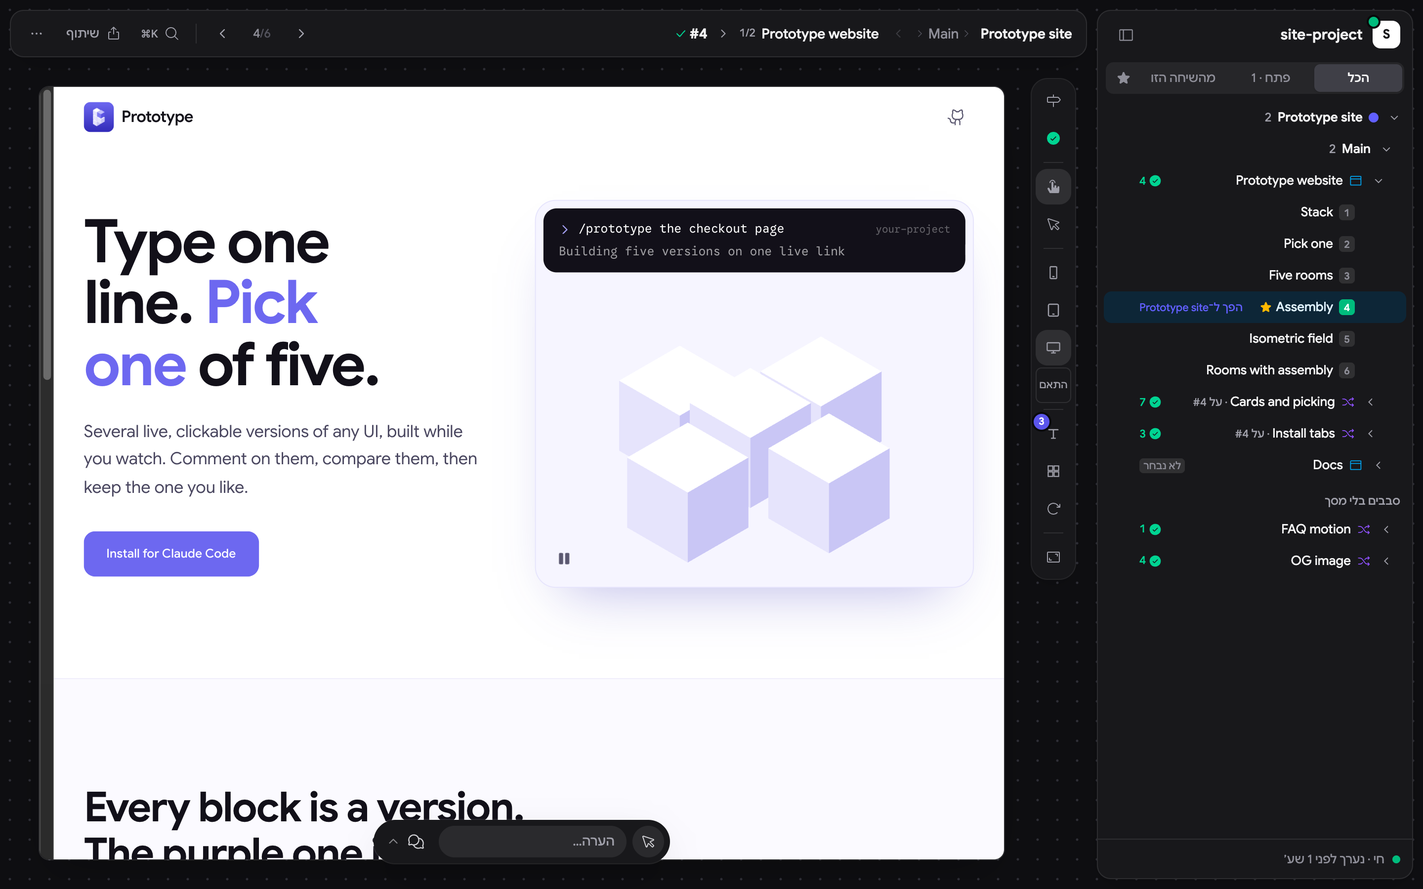
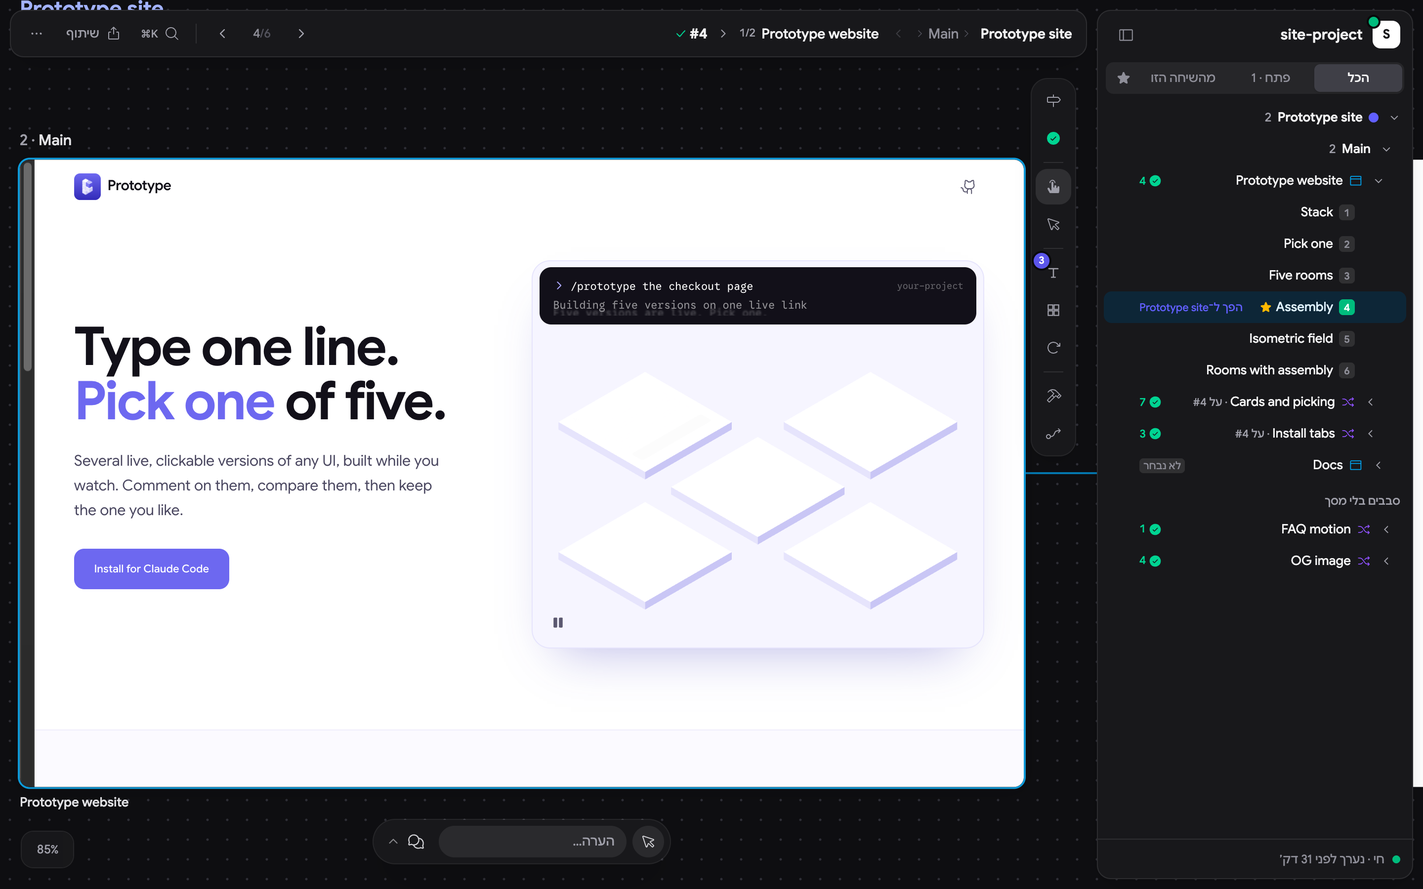
feat: zoom pill, Build it out of the island, zoom read against the design, a links toggle
The bottom pill now carries the zoom only (it opens to the layouts, Fit and zoom on hover), so the
strip drops its layout buttons. The % reads against the design's own size, up to 500%. Build it and
notes grow out of the comments island, which steps aside. Show every link is an icon in the strip.

diff --git a/app/shell/map/index.tsx b/app/shell/map/index.tsx
@@ -10,7 +10,7 @@ import { createRoot } from 'react-dom/client'
 import type { Design, Proto, Variant } from '../shell'
 import { t, tn } from '../i18n'
 import { numberOf } from '../variants'
-import { GAP, linePath, worldOf, type Board, type World } from './world'
+import { CARD, GAP, linePath, worldOf, type Board, type World } from './world'
 import { Ph } from '../tree/row'
 
 export type MapInput = {
@@ -38,6 +38,12 @@ export type MapApi = {
   slot?(el: HTMLElement | null): void
   /** Ends Focus where the map is (zoomed out past the focused board). */
   leave?(): void
+  /** The page's controls for the map (its zoom pill and strip), set by the map. */
+  ctl?: { zoom(f: number): void; fit(): void; build(): void }
+  /** The map's state for those controls: its zoom as the design's own size, Build it open and offered. With it, the page draws the controls. */
+  report?(s: { pct: number; build: boolean; one: boolean }): void
+  /** A box of the map's (Build it, a note) opened or closed: the comments island steps aside for it. */
+  panel?(open: boolean): void
   mount(el: HTMLElement, component: unknown): () => void
   /** The camera's last place, kept across Focus so leaving it flies back to where the map was. */
   camera: { x: number; y: number; z: number } | null
@@ -50,7 +56,8 @@ export type MapApi = {
 /** What a note on the map is about: a link line, a flow, or a link dragged from one screen to another. */
 type Note = { kind: 'line' | 'link'; a: Board; b: Board } | { kind: 'flow'; design: string; flow: string; a: Board }
 type Cam = { x: number; y: number; z: number }
-const MIN_Z = 0.02, MAX_Z = 2
+// The zoom reads as the design's own size (an option card is CARD of it), up to MAX_SIZE of it.
+const MAX_SIZE = 5, MIN_Z = 0.02, MAX_Z = MAX_SIZE / CARD
 /** A fold or a spread animates at most this many cards (those in view nearest the middle), for this long. */
 const MAX_ANIM = 24, ANIM_MS = 380
 /** How far under its fit the design in Focus is zoomed out before the map takes over again. */
@@ -178,6 +185,8 @@ function MapView({ api }: { api: MapApi }) {
   const dragged = useRef(0)
   const [size, setSize] = useState({ w: 1, h: 1 })
   const sizeRef = useRef(size); sizeRef.current = size
+  // The board the zoom is read against: the one in Focus, else the nearest the middle.
+  const refScale = useRef(1)
   const safe = useMemo(() => { const [l = 0, t = 0, r = 0, b = 0] = (input.safe ?? '').split(',').map(Number); return { l, t, r, b } }, [input.safe])
   const safeRef = useRef(safe); safeRef.current = safe
   /** The clear part of the map: where fits land and zooms centre. */
@@ -213,7 +222,7 @@ function MapView({ api }: { api: MapApi }) {
   }
   const fitAll = () => fly(fitTo({ x: 0, y: 0, w: Math.max(world.w, 1), h: Math.max(world.h, 1) }, 0.92))
   const zoomAt = (f: number, px: number, py: number) => {
-    const c = cam.current, z = clamp(c.z * f, MIN_Z, MAX_Z)
+    const c = cam.current, z = clamp(c.z * f, MIN_Z, MAX_SIZE / refScale.current)
     set({ z, x: px - (px - c.x) * (z / c.z), y: py - (py - c.y) * (z / c.z) })
     // Zoomed out well past the design in Focus: that is the map again, right where the camera is.
     const fb = focusRef.current
@@ -367,6 +376,13 @@ function MapView({ api }: { api: MapApi }) {
   const selBoard = world.boards.find(b => b.key === sel)
   const focusBoard = input.focus ? world.boards.find(b => b.kind === 'screen' && b.route === input.focus) ?? world.boards.find(b => b.route === input.focus) : undefined
   focusRef.current = focusBoard ?? null
+  refScale.current = (focusBoard ?? near[0])?.scale ?? 1
+  const pct = Math.round(c.z * refScale.current * 100)
+  const hosted = !!api.report
+  useEffect(() => { api.report?.({ pct, build, one: !!one && !ro }) }, [pct, build, !!one, ro]) // eslint-disable-line react-hooks/exhaustive-deps
+  useEffect(() => {
+    api.ctl = { zoom: f => { const a = clear(); zoomAt(f, a.x + a.w / 2, a.y + a.h / 2) }, fit: () => { const fb = focusRef.current; if (fb) fly(fitTo(fb, 1)); else fitAll() }, build: () => { setNote(null); setBuild(b => !b) } }
+  })
   // Focus moves the camera: onto the board it takes, and back to where the map was when it ends.
   useEffect(() => {
     // Hidden (a device size or a tool has the stage) the map has no size to fly in: it waits as it is.
@@ -509,7 +525,7 @@ function MapView({ api }: { api: MapApi }) {
       </div>
       {/* The map's own controls stay in its clear part, off the page's cards. */}
       <div className="pointer-events-none absolute [&>*]:pointer-events-auto" style={{ left: safe.l, top: safe.t, right: safe.r, bottom: safe.b }}>
-        <div data-map-tools className="absolute bottom-3 end-3 flex items-center gap-1 rounded-xl bg-white/90 p-1 text-[12px] shadow ring-1 ring-black/[.06] backdrop-blur dark:bg-zinc-900/90 dark:ring-white/10">
+        {!hosted && <div data-map-tools className="absolute bottom-3 end-3 flex items-center gap-1 rounded-xl bg-white/90 p-1 text-[12px] shadow ring-1 ring-black/[.06] backdrop-blur dark:bg-zinc-900/90 dark:ring-white/10">
           {input.designs.length > 1 && (
             <select data-map-design aria-label={t('Design')} value={input.design} onChange={e => api.setDesign(e.target.value)}
               className="h-7 max-w-40 rounded-lg bg-transparent px-1 text-zinc-600 hover:bg-zinc-900/5 dark:text-zinc-300 dark:hover:bg-white/10">
@@ -524,7 +540,7 @@ function MapView({ api }: { api: MapApi }) {
           <button type="button" data-map-zoom="in" aria-label={t('Zoom in')} title={t('Zoom in') + ' (+)'} onClick={() => { const a = clear(); zoomAt(1.25, a.x + a.w / 2, a.y + a.h / 2) }} className="grid size-7 place-items-center rounded-lg text-zinc-600 hover:bg-zinc-900/5 dark:text-zinc-300 dark:hover:bg-white/10"><Ph name="plus" className="size-3.5" /></button>
           <button type="button" data-map-fit onClick={fitAll} title={t('Fit (0)')} className="h-7 rounded-lg px-2 text-zinc-600 hover:bg-zinc-900/5 dark:text-zinc-300 dark:hover:bg-white/10">{t('Fit')}</button>
           <span className="w-10 text-center tabular-nums text-zinc-400">{Math.round(c.z * 100)}%</span>
-        </div>
+        </div>}
         {build && one && !note && <BuildBox design={one} boards={world.boards} api={api} onClose={() => setBuild(false)} />}
         {note && <NoteBox key={`${note.kind}:${note.a.key}:${'b' in note ? note.b.key : note.flow}`} note={note} api={api} onClose={() => setNote(null)} />}
         {selBoard && selBoard !== focusBoard && !note && !build && (
@@ -538,10 +554,28 @@ function MapView({ api }: { api: MapApi }) {
   )
 }
 
+/** A box of the map's grows out of the comments island (which steps aside meanwhile), as if the island became it. */
+function useFromIsland(api: MapApi) {
+  const box = useRef<HTMLDivElement>(null)
+  useLayoutEffect(() => {
+    const el = box.current, from = document.querySelector('[data-island-host] [data-island]')?.getBoundingClientRect()
+    api.panel?.(true)
+    if (el && from && from.width && !matchMedia('(prefers-reduced-motion: reduce)').matches) {
+      const to = el.getBoundingClientRect()
+      el.animate([
+        { transform: `translate(${from.left - to.left}px, ${from.top - to.top}px) scale(${from.width / to.width}, ${from.height / to.height})`, borderRadius: '999px', opacity: 0.5 },
+        { transform: 'none', borderRadius: '16px', opacity: 1 },
+      ], { duration: 280, easing: 'cubic-bezier(.2, .9, .25, 1)' })
+    }
+    return () => api.panel?.(false)
+  }, []) // eslint-disable-line react-hooks/exhaustive-deps
+  return box
+}
+
 /** Words to the agent about a link, a flow, or a link to add: what it is about, a field, Send. */
 function NoteBox({ note, api, onClose }: { note: Note; api: MapApi; onClose: () => void }) {
   const [text, setText] = useState(''), [state, setState] = useState<'' | 'sending' | 'sent' | 'failed'>('')
-  const field = useRef<HTMLTextAreaElement>(null)
+  const field = useRef<HTMLTextAreaElement>(null), box = useFromIsland(api)
   useEffect(() => { field.current?.focus() }, [])
   const what = note.kind === 'flow' ? t('A note on the flow {flow}', { flow: note.flow })
     : note.kind === 'line' ? t('A note on the link {a} → {b}', { a: note.a.title, b: note.b.title })
@@ -559,7 +593,7 @@ function NoteBox({ note, api, onClose }: { note: Note; api: MapApi; onClose: () 
     } catch { setState('failed') }
   }
   return (
-    <div data-map-note={note.kind} className="absolute inset-x-0 bottom-3 mx-auto max-sm:bottom-14 w-[min(26rem,calc(100%-2rem))] rounded-2xl bg-white p-3 text-[13px] shadow-[0_18px_44px_-14px_rgb(0_0_0/.35)] ring-1 ring-black/[.06] dark:bg-zinc-900 dark:text-zinc-100 dark:ring-white/10">
+    <div ref={box} data-map-note={note.kind} style={{ transformOrigin: 'top left' }} className="absolute inset-x-0 bottom-3 mx-auto max-sm:bottom-14 w-[min(26rem,calc(100%-2rem))] rounded-2xl bg-white p-3 text-[13px] shadow-[0_18px_44px_-14px_rgb(0_0_0/.35)] ring-1 ring-black/[.06] dark:bg-zinc-900 dark:text-zinc-100 dark:ring-white/10">
       <div className="mb-2 flex items-center gap-2"><span dir="auto" className="min-w-0 flex-1 truncate font-medium">{what}</span>
         <button type="button" aria-label={t('Close')} onClick={onClose} className="grid size-7 place-items-center rounded-lg text-zinc-400 hover:bg-zinc-900/5 dark:hover:bg-white/10"><Ph name="x" className="size-3.5" /></button></div>
       <textarea ref={field} data-map-note-field dir="auto" rows={2} value={text} onChange={e => setText(e.target.value)}
@@ -580,7 +614,7 @@ function BuildBox({ design, boards, api, onClose }: { design: Design; boards: Bo
   const screens = boards.filter(b => b.kind === 'screen' && b.design === design.id)
   const [on, setOn] = useState(() => new Set(screens.filter(b => !b.standIn).map(b => b.key)))
   const [state, setState] = useState<'' | 'sending' | 'sent' | 'failed'>('')
-  const chosen = screens.filter(b => on.has(b.key))
+  const chosen = screens.filter(b => on.has(b.key)), box = useFromIsland(api)
   const send = async () => {
     if (!chosen.length || state === 'sending') return
     const list = chosen.map(b => b.key.slice('screen:'.length)), open = chosen.filter(b => b.standIn).map(b => b.slug)
@@ -592,7 +626,7 @@ function BuildBox({ design, boards, api, onClose }: { design: Design; boards: Bo
     } catch { setState('failed') }
   }
   return (
-    <div data-map-build-box data-map-note="build" className="absolute inset-x-0 bottom-3 mx-auto max-sm:bottom-14 w-[min(24rem,calc(100%-2rem))] rounded-2xl bg-white p-3 text-[13px] shadow-[0_18px_44px_-14px_rgb(0_0_0/.35)] ring-1 ring-black/[.06] dark:bg-zinc-900 dark:text-zinc-100 dark:ring-white/10">
+    <div ref={box} data-map-build-box data-map-note="build" style={{ transformOrigin: 'top left' }} className="absolute inset-x-0 bottom-3 mx-auto max-sm:bottom-14 w-[min(24rem,calc(100%-2rem))] rounded-2xl bg-white p-3 text-[13px] shadow-[0_18px_44px_-14px_rgb(0_0_0/.35)] ring-1 ring-black/[.06] dark:bg-zinc-900 dark:text-zinc-100 dark:ring-white/10">
       <div className="mb-1 flex items-center gap-2"><span dir="auto" className="min-w-0 flex-1 truncate font-medium">{t('Build {name}', { name: design.title })}</span>
         <button type="button" aria-label={t('Close')} onClick={onClose} className="grid size-7 place-items-center rounded-lg text-zinc-400 hover:bg-zinc-900/5 dark:hover:bg-white/10"><Ph name="x" className="size-3.5" /></button></div>
       <p className="mb-2 text-zinc-500">{t('The screens you tick, with their links as real navigation.')}</p>

diff --git a/app/shell/shell.ts b/app/shell/shell.ts
@@ -559,6 +559,7 @@ export function createShell(root: HTMLElement, opts: { mount: Mount; protos: Pro
         <div data-comments class="pointer-events-none absolute inset-0 z-[16] has-[[data-composer]]:z-[25]" style="inset-inline-start:var(--strip-w,0px);inset-inline-end:var(--hw,0px);bottom:calc(var(--stage-b,var(--pill-h,0px)) + var(--dock-h,0px) + var(--copy-h,0px))"></div>
         <div data-island-host class="pointer-events-none absolute inset-0 z-[17]" style="inset-inline-start:var(--strip-w,0px);inset-inline-end:var(--hw,0px)"></div>
         <div data-strip hidden class="absolute start-3 top-3 z-[20]"></div>
+        <div data-zoom-pill hidden class="absolute bottom-3 z-[21]" style="inset-inline-end:calc(var(--hw,0px) + 0.75rem)"></div>
         <div data-motion-dock class="absolute start-0 z-[18]" style="inset-inline-end:var(--hw,0px);bottom:var(--pill-h,0px)"></div>
         <div data-copy-bar class="absolute start-0 z-[14]" style="inset-inline-end:var(--hw,0px);bottom:calc(var(--pill-h,0px) + var(--dock-h,0px))"></div>
         <div data-copy-sheet class="pointer-events-none absolute inset-0 z-[19] overflow-hidden" style="inset-inline-end:var(--hw,0px);bottom:var(--pill-h,0px)"></div>
@@ -673,6 +674,8 @@ export function createShell(root: HTMLElement, opts: { mount: Mount; protos: Pro
   let mapSnap: MapInput | null = null, mapMounted = false, lastFocus = ''
   let mapLines: 'all' | 'selected' = localStorage.getItem('proto-map-lines') === 'all' ? 'all' : 'selected'
   let mapDesign = '', mapEdits = 0
+  // What the map says of itself: its zoom (as the design's own size), and Build it (open, offered).
+  let mapState = { pct: 100, build: false, one: false }
   // The area the tree asked the map to show (a design or flow key, numbered so asking again flies again).
   let mapFrame = '', frames = 0
   // Each prototype's file edits, counted: its stills on the map are taken again when its count moves.
@@ -700,11 +703,36 @@ export function createShell(root: HTMLElement, opts: { mount: Mount; protos: Pro
     setDesign: id => { mapDesign = id; paintMap() },
     ask: async (on, action, text) => { await comments.act.decide(on, action, { body: [text], tags: [] }) },
     slot: el => { slotEl = el; placeLayer() },
+    report: s => { const was = mapState; mapState = s; paintZoom(); if (was.build !== s.build || was.one !== s.one) render() },
+    panel: open => islandHost.toggleAttribute('data-away', open),
     leave: () => { if (inPlace()) go({ view: 'session' }) },
   }
   // On a wide desk the map fills the window, under the bar, the strip, the sidebar and the island; it
   // is told the clear part of it (the stage), where it fits and centres things and keeps its controls.
   const deskMq = matchMedia('(min-width: 1024px)')
+  // The zoom pill (tree mode, a wide page): its zoom only, and on hover the layouts, Fit and −/+. It
+  // drives the map's camera while the map shows (its zoom is the design's own size), else the layout's.
+  const zoomPillOn = () => treeOn && !framed && deskMq.matches && !st.focus && (onMap() || inPlace() || viewOn())
+  let zoomKey = ''
+  function paintZoom() {
+    const el = root.querySelector<HTMLElement>('[data-zoom-pill]')
+    if (!el) return
+    if (!el.dataset.bound) { el.dataset.bound = '1'; el.addEventListener('change', e => { const sel = (e.target as HTMLElement).closest<HTMLSelectElement>('select[data-map-design]'); if (sel) mapApi.setDesign(sel.value) }) }
+    const on = zoomPillOn()
+    el.hidden = !on
+    if (!on) { el.innerHTML = ''; zoomKey = ''; return }
+    const mapOn = onMap() || inPlace(), inScreen = st.place.view === 'variant'
+    const pct = mapOn ? `${mapState.pct}%` : scaleLabel()
+    const key = JSON.stringify([mapOn, inScreen, viewOk(), shownSize(), st.view.land, designs.map(d => d.id + d.title), mapDesign, document.documentElement.lang])
+    if (key === zoomKey && el.firstElementChild) { el.querySelector('[data-zoom-pct]')!.textContent = pct; return }
+    zoomKey = key
+    const btn = 'grid size-7 shrink-0 place-items-center rounded-lg text-zinc-600 hover:bg-zinc-900/5 aria-pressed:bg-zinc-900/[.07] aria-pressed:text-zinc-900 dark:text-zinc-300 dark:hover:bg-white/10 dark:aria-pressed:bg-white/10 dark:aria-pressed:text-white'
+    const sizes = inScreen && viewOk() ? ORDER.map(z => { const land = z === 'tablet' && st.view.land, d = dims(z, land); return `<button type="button" data-act="size:${z}" data-shoot="pill-size-${z}" aria-pressed="${shownSize() === z}" aria-label="${SIZES[z].name}" title="${SIZES[z].name} · ${d.w} × ${d.h}" class="${btn}">${ic(sizeIcon(z, land))}</button>` }).join('') + '<span class="mx-1 h-5 w-px shrink-0 bg-black/[.08] dark:bg-white/10"></span>' : ''
+    const pick = mapOn && designs.length > 1 ? `<select data-map-design aria-label="${t('Design')}" class="h-7 max-w-40 shrink-0 rounded-lg bg-transparent px-1 text-zinc-600 hover:bg-zinc-900/5 dark:text-zinc-300 dark:hover:bg-white/10"><option value="">${t('All designs')}</option>${designs.map(d => `<option value="${esc(d.id)}"${d.id === mapDesign ? ' selected' : ''}>${esc(d.title)}</option>`).join('')}</select>` : ''
+    el.innerHTML = `<div class="group flex items-center rounded-xl bg-white/90 p-1 text-[12px] shadow ring-1 ring-black/[.06] backdrop-blur dark:bg-zinc-900/90 dark:ring-white/10">
+      <div data-zoom-more class="flex max-w-0 items-center gap-0.5 overflow-hidden opacity-0 transition-[max-width,opacity] duration-200 ease-out group-hover:max-w-[40rem] group-hover:opacity-100 group-focus-within:max-w-[40rem] group-focus-within:opacity-100 motion-reduce:transition-none">${pick}${sizes}<button type="button" data-act="zoom:fit" data-map-fit aria-label="${mapOn ? t('Fit') : t('Center the design')}" title="${mapOn ? t('Fit') : t('Center the design')} · 0" class="${btn}">${ic('center')}</button><button type="button" data-act="zoom:out" data-map-zoom="out" aria-label="${t('Zoom out')}" title="${t('Zoom out')} (-)" class="${btn}">${ic('zoom-out', 'size-3.5')}</button><button type="button" data-act="zoom:in" data-map-zoom="in" aria-label="${t('Zoom in')}" title="${t('Zoom in')} (+)" class="${btn}">${ic('zoom-in', 'size-3.5')}</button></div>
+      <span data-zoom-pct class="min-w-11 px-1.5 text-center tabular-nums text-zinc-500 dark:text-zinc-400">${pct}</span></div>`
+  }
   function paintMap() {
     const show = onMap() || inPlace()
     mapHost.hidden = !show
@@ -760,7 +788,14 @@ export function createShell(root: HTMLElement, opts: { mount: Mount; protos: Pro
     const own = !inScreen ? [off('strip-tweaks', 'tweaks', t('Tweaks')), off('strip-try', 'key', t('Try it')), off('strip-copy', 'text', t('Copy options')), off('strip-motion', 'curves', t('Motion')), off('strip-states', 'grid', t('States, Autoplay, Compare'))]
       : [tweaksBtn(), hintList().length ? tool('try', 'strip-try', 'key', t('Try it'), '', trySheet === 'open') : '', copyBtn(), motionBtn(), statesBtn, replayBtn()]
     const fit = inScreen && frameOn() ? tool('center', 'strip-fit', 'center', t('Center the design'), '⌘0') : ''
-    const groups = [[tourBtn, decide], hands, sizes, own, [fit]].map(g => g.filter(Boolean).join('')).filter(Boolean)
+    // On the map: Build it (the island turns into its box) and every link drawn, not just the selected screen's.
+    const onTheMap = onMap() || inPlace()
+    const mapTools = onTheMap ? [
+      mapState.one ? tool('map:build', 'strip-build', 'build', t('Build it…'), '', mapState.build).replace('data-act', 'data-map-build data-act') : '',
+      tool('map:lines', 'strip-links', 'links', mapLines === 'all' ? t('Showing every link') : t('Show every link'), '', mapLines === 'all').replace('data-act', 'data-map-lines data-act'),
+    ] : []
+    // The layouts and the zoom live in the zoom pill (bottom corner) when it shows.
+    const groups = [[tourBtn, decide], hands, zoomPillOn() ? [] : sizes, own, mapTools, zoomPillOn() ? [] : [fit]].map(g => g.filter(Boolean).join('')).filter(Boolean)
     // The bar's own buttons drawn upright: their words, carets and counts' text stay out (only the
     // strip's own buttons, never the rows of a menu opening beside it).
     strip.innerHTML = `<div data-strip-tools class="flex flex-col items-center gap-0.5 rounded-2xl bg-white p-1 shadow-[0_8px_24px_-12px_rgb(0_0_0/.35)] ring-1 ring-black/[.06] dark:bg-zinc-900 dark:ring-white/10
@@ -1533,6 +1568,7 @@ export function createShell(root: HTMLElement, opts: { mount: Mount; protos: Pro
       </div></div>`)
     menus = { protos: drill(), session: '' }
     paintStrip(deviceBtn, replayBtn, centerBtn)
+    paintZoom()
     paintTour()
     paintChip()
 
@@ -2291,6 +2327,17 @@ export function createShell(root: HTMLElement, opts: { mount: Mount; protos: Pro
       case 'turn': return patchView({ land: !st.view.land, zoom: 0 })
       case 'center': return setScale(0)
       case 'replay': return replayDesign()
+      // The zoom pill: the map's camera while the map shows, else the chosen layout's zoom.
+      case 'zoom': {
+        const mapOn = onMap() || inPlace()
+        if (arg === 'fit') return mapOn ? mapApi.ctl?.fit() : setScale(0)
+        if (mapOn) return mapApi.ctl?.zoom(arg === 'in' ? 1.25 : 0.8)
+        { const [lo, hi] = scaleRange(); return setScale(Math.min(hi, Math.max(lo, Math.round(((scaleNow() || 50) + (arg === 'in' ? 10 : -10)) / 5) * 5))) }
+      }
+      case 'map':
+        if (arg === 'build') return mapApi.ctl?.build()
+        if (arg === 'lines') { mapApi.setLines(mapLines === 'all' ? 'selected' : 'all'); return render() }
+        return
       case 'scalestep': { const [lo, hi] = scaleRange(); return setScale(Math.min(hi, Math.max(lo, Math.round(((scaleNow() || 50) + Number(arg)) / 5) * 5))) }
       case 'theme': return setTheme(arg === 'dark')
       case 'focus': if (st.place.view !== 'variant') return; st.focus = true; st.open = null; dock.hold = performance.now() + 1600; edge.hover = {}; render(); return fit()

diff --git a/app/shell/ui.ts b/app/shell/ui.ts
@@ -48,8 +48,12 @@ import chatCircle from '@phosphor-icons/core/assets/regular/chat-circle.svg?raw'
 import magnifyingGlass from '@phosphor-icons/core/assets/regular/magnifying-glass.svg?raw'
 import signpost from '@phosphor-icons/core/assets/regular/signpost.svg?raw'
 import squaresFour from '@phosphor-icons/core/assets/regular/squares-four.svg?raw'
+import hammer from '@phosphor-icons/core/assets/regular/hammer.svg?raw'
+import flowArrow from '@phosphor-icons/core/assets/regular/flow-arrow.svg?raw'
+import minusIcon from '@phosphor-icons/core/assets/regular/minus.svg?raw'
+import plusIcon from '@phosphor-icons/core/assets/regular/plus.svg?raw'
 /** Icons that are Phosphor's own files, never drawn here: the ⋯, the pick's check circle, the favorite's star. */
-const PHOSPHOR: Record<string, string> = { select: cursor, 'select-on': cursorFill, tap: handTap, 'tap-on': handTapFill, chats: chatsCircle, 'chat-text': chatText, 'grip-v': gripV, 'fold-right': foldRight, 'caret-up': caretUp, spinner: circleNotch, 'share-stage': shotStage, 'share-phone': shotPhone, 'share-tablet': shotTablet, 'share-desktop': shotDesktop, 'share-pencil': shotPencil, share, download, eyeoff, dots: dotsThree, pick: checkCircle, picked: checkCircleFill, settings, keyboard, eye, tweaks: tweaksIcon, translate, globe, star, 'star-fill': starFill, center: shotStage, replay: arrowClockwise, 'link-simple': linkSimple, qr: qrCode, 'open-out': squareOut, 'copy-simple': copySimple, 'trash-simple': trashSimple, 'check-simple': checkSimple, 'x-simple': xSimple, 'send-plane': paperPlane, 'reply-back': bendBack, warning, terminal, refresh: arrowClockwise, 'github-fill': githubFill, 'chat-circle': chatCircle, search: magnifyingGlass, signpost, map: squaresFour }
+const PHOSPHOR: Record<string, string> = { build: hammer, links: flowArrow, 'zoom-out': minusIcon, 'zoom-in': plusIcon, select: cursor, 'select-on': cursorFill, tap: handTap, 'tap-on': handTapFill, chats: chatsCircle, 'chat-text': chatText, 'grip-v': gripV, 'fold-right': foldRight, 'caret-up': caretUp, spinner: circleNotch, 'share-stage': shotStage, 'share-phone': shotPhone, 'share-tablet': shotTablet, 'share-desktop': shotDesktop, 'share-pencil': shotPencil, share, download, eyeoff, dots: dotsThree, pick: checkCircle, picked: checkCircleFill, settings, keyboard, eye, tweaks: tweaksIcon, translate, globe, star, 'star-fill': starFill, center: shotStage, replay: arrowClockwise, 'link-simple': linkSimple, qr: qrCode, 'open-out': squareOut, 'copy-simple': copySimple, 'trash-simple': trashSimple, 'check-simple': checkSimple, 'x-simple': xSimple, 'send-plane': paperPlane, 'reply-back': bendBack, warning, terminal, refresh: arrowClockwise, 'github-fill': githubFill, 'chat-circle': chatCircle, search: magnifyingGlass, signpost, map: squaresFour }
 
 const PATHS: Record<string, string> = {
   ...SIZE_PATHS,

diff --git a/app/shell/shell.css b/app/shell/shell.css
@@ -198,6 +198,12 @@ html[dir="rtl"] :is(input, textarea)[dir="auto"]:placeholder-shown:not([data-mou
   /* The map runs under the desk's cards to the window's edges: the sidebar card stays over it. */
   [data-desk] > [data-tree-side] { position: relative; z-index: 10; }
   [data-desk] [data-map-host][data-full] { position: fixed !important; inset: 0 !important; }
+}
+/* The comments island steps aside while a box of the map's (Build it, a note) grows out of its place. */
+[data-island-host] { transition: opacity .18s ease-out; }
+[data-island-host][data-away] { opacity: 0; }
+[data-island-host][data-away] * { pointer-events: none !important; }
+@media (min-width: 1024px) {
   [data-desk] > [data-grip] + div { margin-inline-start: var(--desk-gap); }
   [data-desk] [data-bar] { margin-bottom: var(--desk-gap); }
   [data-desk] [data-panel]:not(.hidden) { overflow: hidden; }

diff --git a/app/shell/i18n/he/tree.ts b/app/shell/i18n/he/tree.ts
@@ -91,4 +91,7 @@ export default {
   // A round's label on the map (map/index.tsx).
   'Fold into a stack': 'קיפול לערימה',
   'Spread out': 'פריסה',
+  // The strip's map tools (shell.ts paintStrip).
+  'Show every link': 'הצגת כל הקישורים',
+  'Showing every link': 'מוצגים כל הקישורים',
 }
